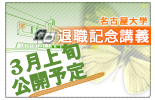
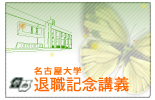
最終講義の本公開用に画像の差し替え. コースリストの最終講義部分の修正.
git-svn-id: file:///ocw/svn/design-rep/ocw-design/trunk@788 0cb0e2da-76ef-49b7-9531-4241df5af7e9

diff --git a/css/contents.css b/css/contents.css
@@ -689,6 +689,17 @@ div.dept_info_vsyllabus {
 	margin:0 20px 10px 0;
 }
 
+div.farewell_list_left {
+	width: 160px;
+	float: left;
+	text-align: left;
+}
+
+div.farewell_list_right {
+	width: 290px; 
+	float: left;
+}
+
 table.farewell {
 	border:0;
 	margin:0 10px 25px 10px;
